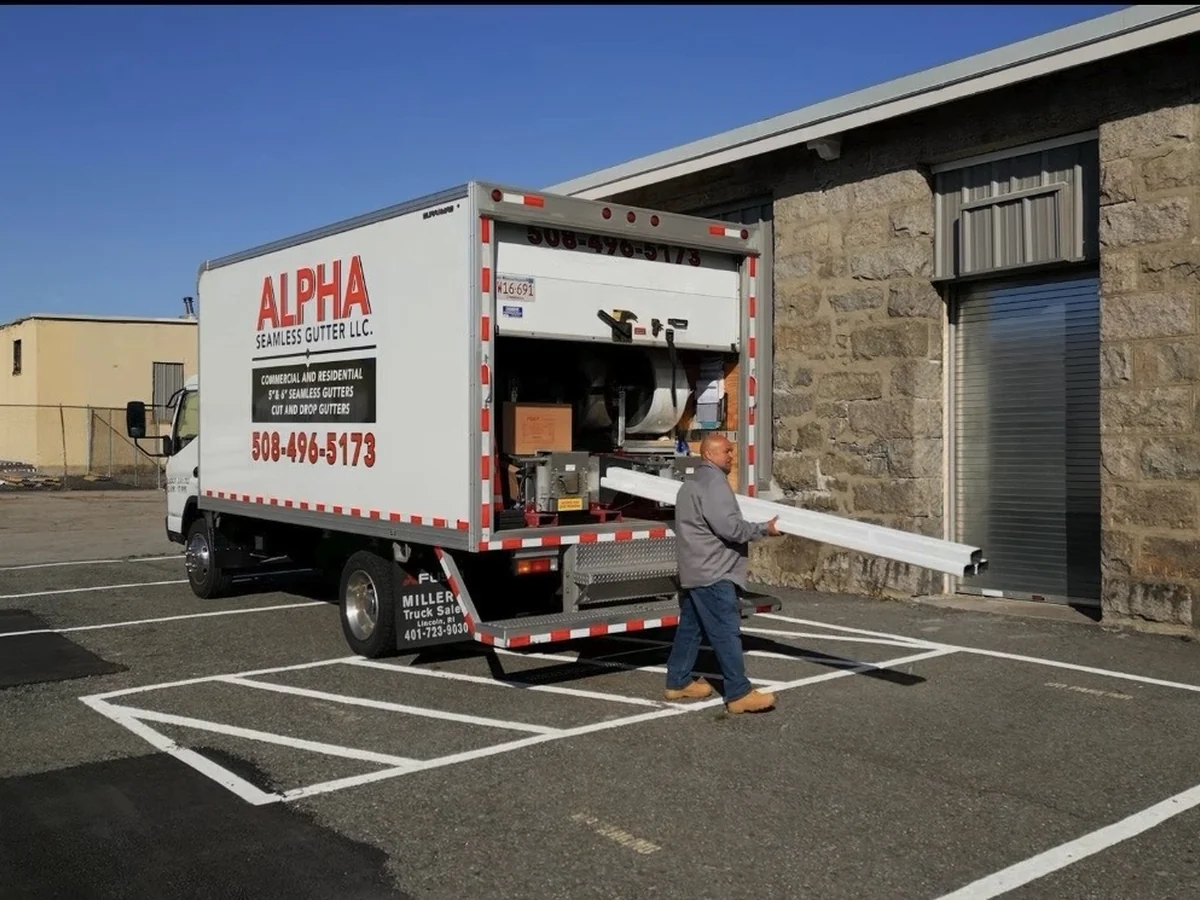
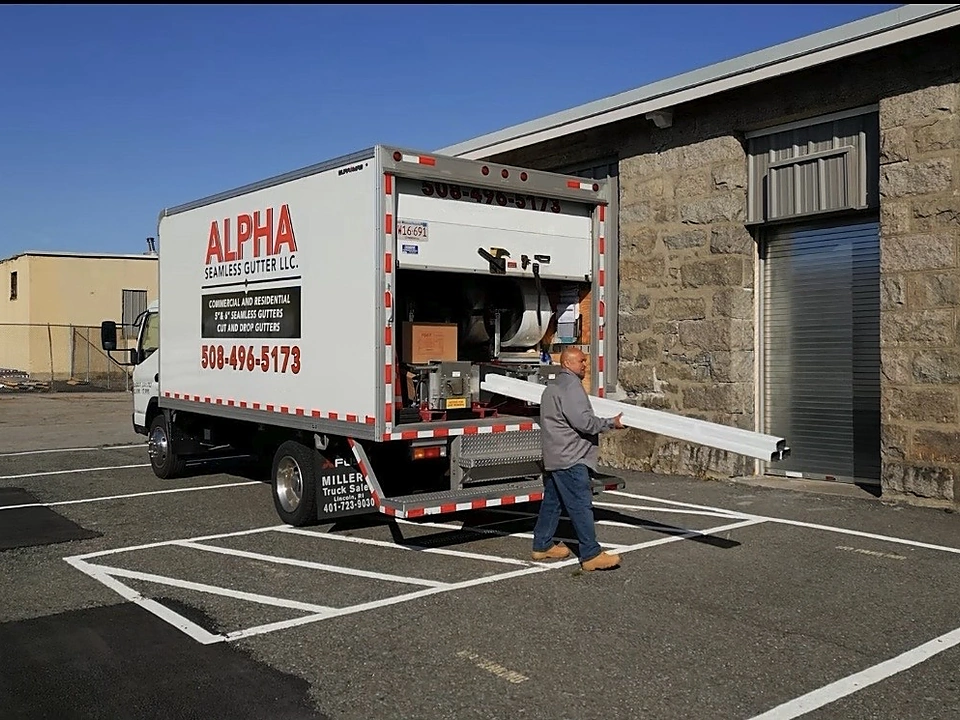
Improve gallery image quality

diff --git a/index.html b/index.html
@@ -319,14 +319,14 @@
 
   /* ---------- WORK GALLERY ---------- */
   #work{background:var(--paper);}
-  .gallery-carousel{position:relative;max-width:980px;margin:0 auto;}
+  .gallery-carousel{position:relative;max-width:820px;margin:0 auto;}
   .gallery-viewport{
     overflow:hidden;background:#fff;border:1px solid var(--paper-2);
     box-shadow:0 16px 34px rgba(20,23,27,.12);touch-action:pan-y;
   }
   .gallery-track{display:flex;transition:transform .38s ease;will-change:transform;}
   .gallery-slide{flex:0 0 100%;padding:0;}
-  .gallery-slide .photo-slot{aspect-ratio:16/10;border:none;}
+  .gallery-slide .photo-slot{aspect-ratio:4/3;border:none;}
   .gallery-controls{
     position:absolute;left:16px;right:16px;top:50%;z-index:5;
     display:flex;justify-content:space-between;pointer-events:none;
@@ -708,7 +708,7 @@
       <h2>See The Job-Ready Difference</h2>
       <p class="intro">A look at our mobile gutter machine, on-site fabrication, delivery truck, and finished residential roofline work.</p>
     </div>
-    <div class="gallery-carousel reveal" aria-label="Alpha Seamless Gutter photo gallery">
+    <div class="gallery-carousel" aria-label="Alpha Seamless Gutter photo gallery">
       <div class="gallery-viewport">
         <div class="gallery-track">
           <!-- PHOTO 1: Alpha mobile gutter machine close-up -->
